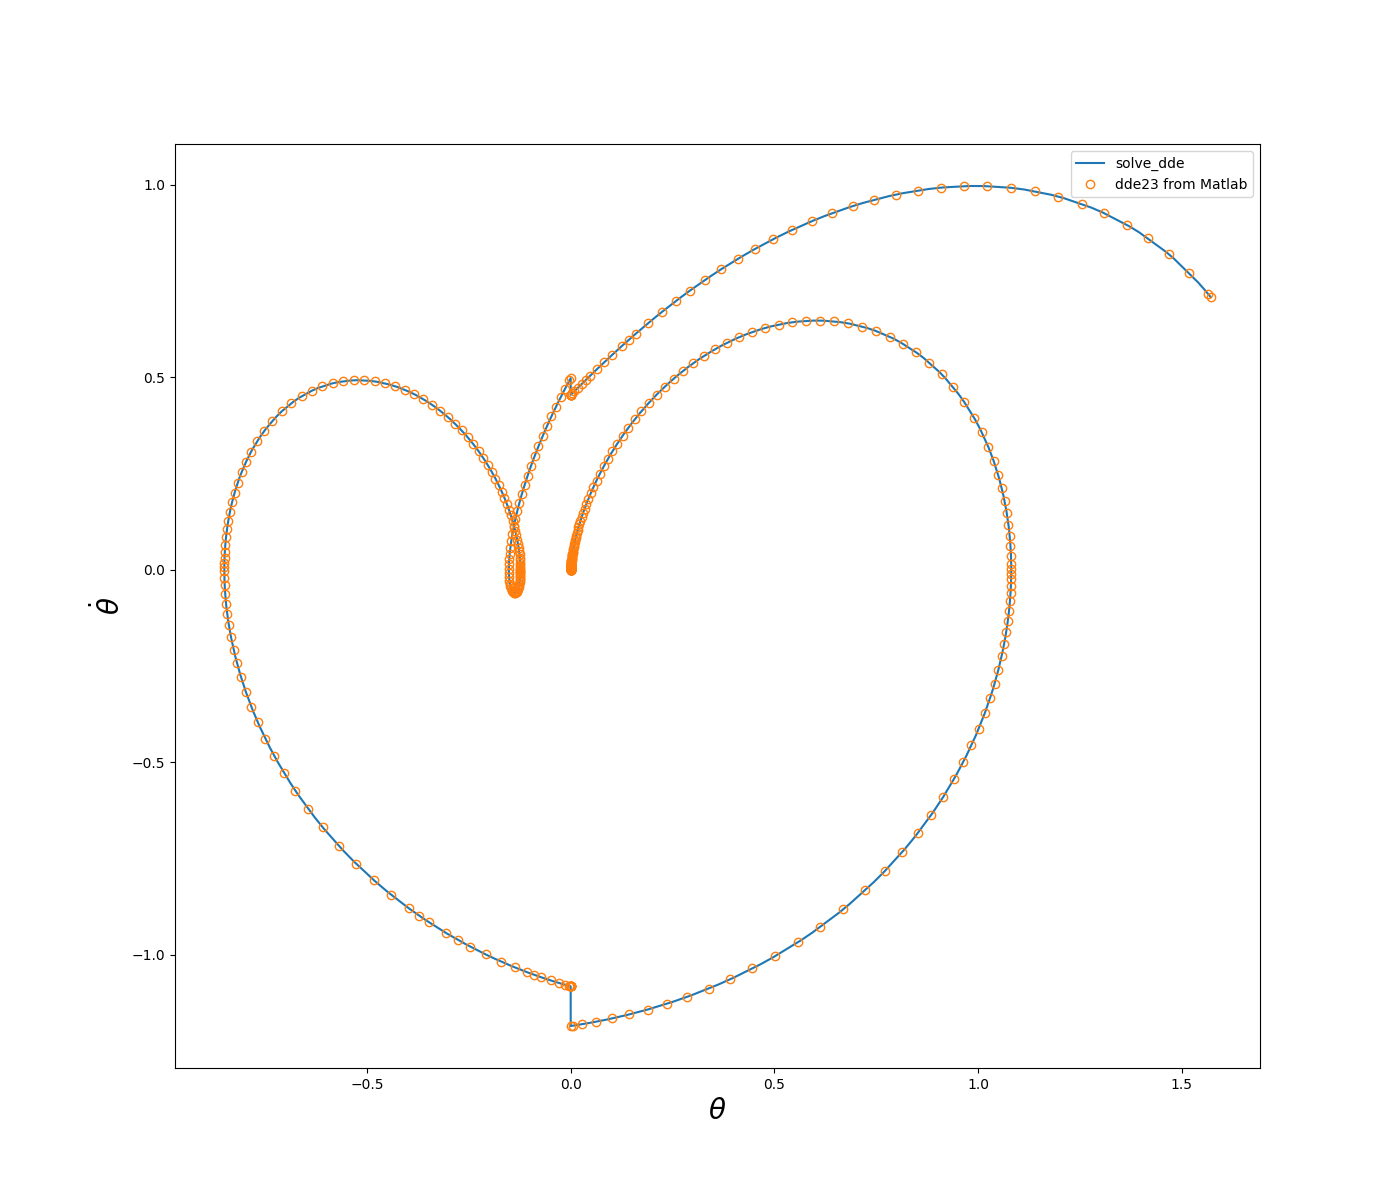
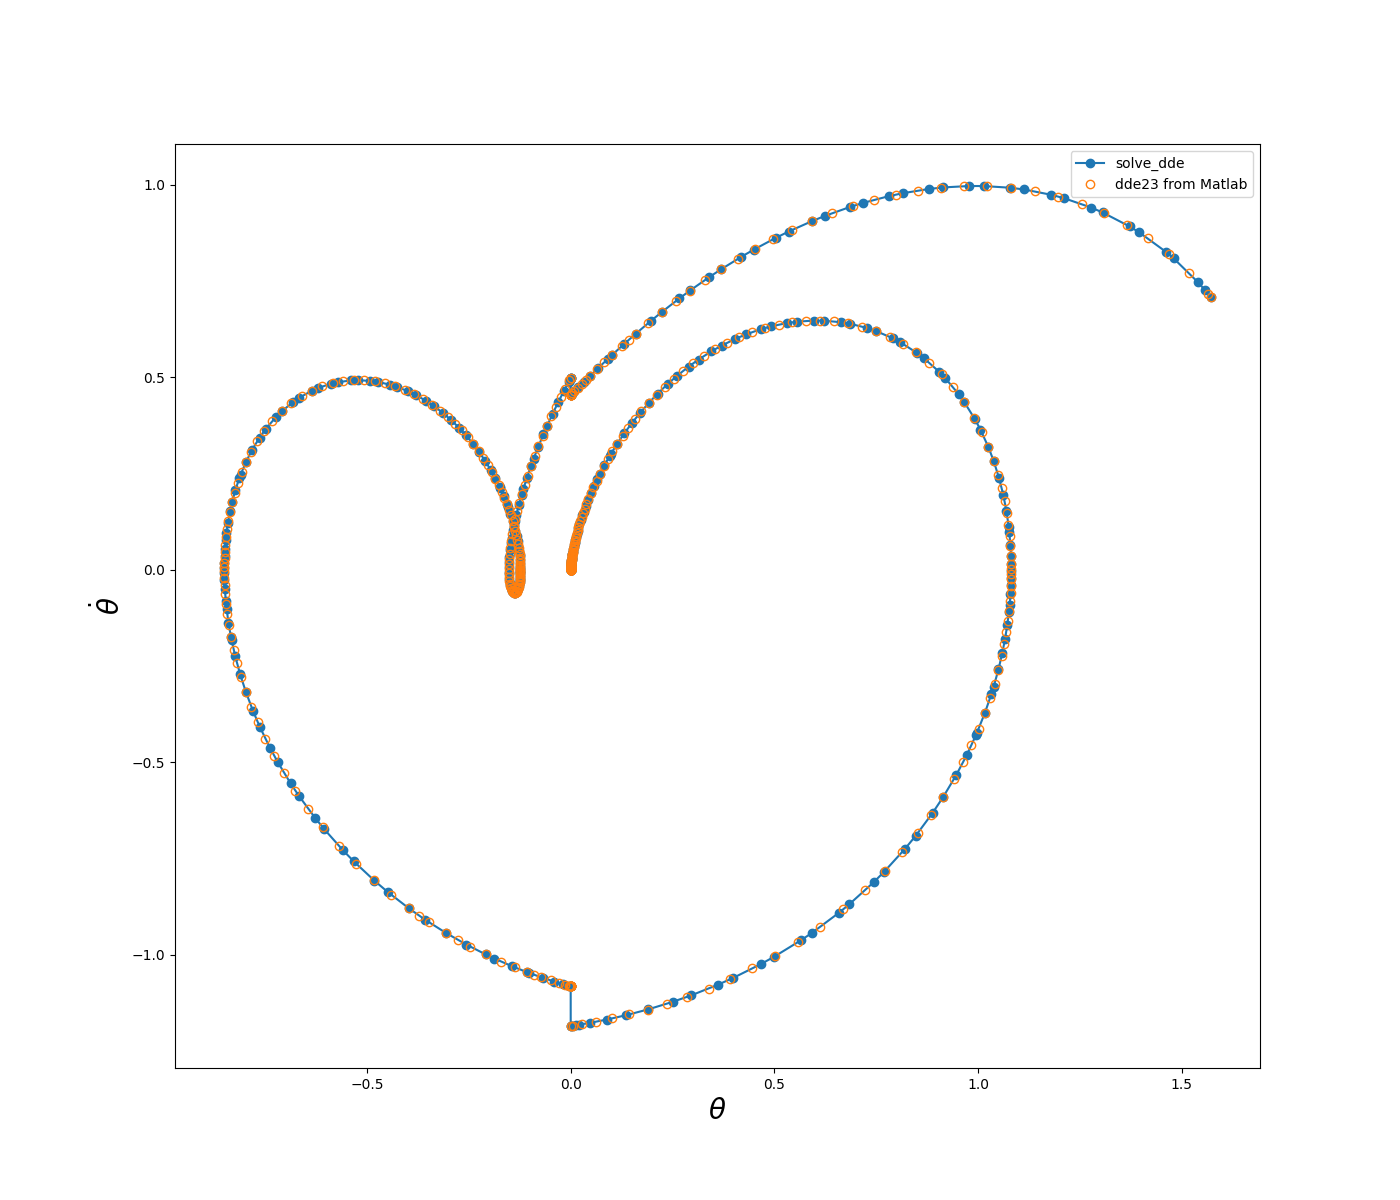
modification output in case of restart from previous computation

diff --git a/scipy/integrate/_dde/dde.py b/scipy/integrate/_dde/dde.py
@@ -152,7 +152,7 @@ def find_active_events(g, g_new, direction):
     return np.nonzero(mask)[0]
 
 
-def solve_dde(fun, t_span, delays, y0, h, method='RK45', t_eval=None,
+def solve_dde(fun, t_span, delays, y0, h, method='RK23', t_eval=None,
               events=None, args=None, **options):
     """Solve an -----------------------------------------.
 
@@ -383,19 +383,15 @@ def solve_dde(fun, t_span, delays, y0, h, method='RK45', t_eval=None,
 
     if method in METHODS:
         method = METHODS[method]
-
     solver = method(fun, t0, y0, h, tf, delays, **options)
 
     if t_eval is None and solver.h_info != 'from previous simu':
-        ts = [solver.t_oldest, t0]
-        ys = [solver.y_oldest, y0]
+        ts = [solver.t_oldest, solver.t]
+        ys = [solver.y_oldest, solver.y]
         yps = [solver.yp_oldest,fun(t0,y0,solver.Z0)]
         interpolants = [solver.h]
     elif t_eval is None and solver.h_info == 'from previous simu':
         (ts, ys, yps) = solver.solver_old.datas
-        t_h = solver.solver_old.t
-        y_h = solver.solver_old.y
-        yp_h = solver.solver_old.yp
         interpolants = solver.h.interpolants
     else:
         ts = []
@@ -514,12 +510,12 @@ def solve_dde(fun, t_span, delays, y0, h, method='RK45', t_eval=None,
         sol = ContinuousExt(t_arr, interpolants)
     else:
         sol = ContinuousExt(ti, interpolants)
-    if t_eval is None and solver.h_info != 'from previous simu':
-        # if from history input the output file will not take into account
-        # history data 
-        t_arr = t_arr[1:]
-        y_arr = y_arr[:,1:]
-        yp_arr = yp_arr[:,1:]
+    # do not return history values to the user 
+    t_arr = t_arr[1:]
+    y_arr = y_arr[:,1:]
+    yp_arr = yp_arr[:,1:]
+    # datas useful for restart integration from values instead of
+    # sol cotinous extension
     datas = (ts, ys, yps)
     return DdeResult(t=t_arr, y=y_arr, yp=yp_arr, sol=sol, datas=datas,
                      discont=solver.discont,

diff --git a/DDEs_models_test/suitcase.py b/DDEs_models_test/suitcase.py
@@ -37,6 +37,7 @@ hitGround.direction = 0 # % All events have to be reported
 hitGround.terminal = True                                 
 
 events = [finalEvent, hitGround]
+print('y0', y0)
 sol23 = solve_dde(fun, tspan, delays, y0, y0, method='RK23',
                   atol=atol, rtol=rtol ,events=events)
 print("\nKind of Event:               scipy-dev         dde23       reference ")
@@ -69,10 +70,11 @@ yp_mat = mat['yp']
 
 plt.figure(figsize=(18,14))
 plt.plot(t, y,'o', label='scipy-dev y(0)(t)')
+plt.plot(t_mat, y_mat[0,:],'-', label='scipy-dev y(0)(t)')
 plt.legend()
 
 plt.figure(figsize=(14,12))
-plt.plot(y, yp, label='solve_dde')
+plt.plot(y, yp, 'o-', label='solve_dde')
 plt.plot(y_mat[0,:], y_mat[1,:],'o',markerfacecolor='none', label='dde23 from Matlab')
 plt.xlabel(r'$\theta$', fontsize=20)
 plt.ylabel(r'$\dot{\theta}$', fontsize=20)
